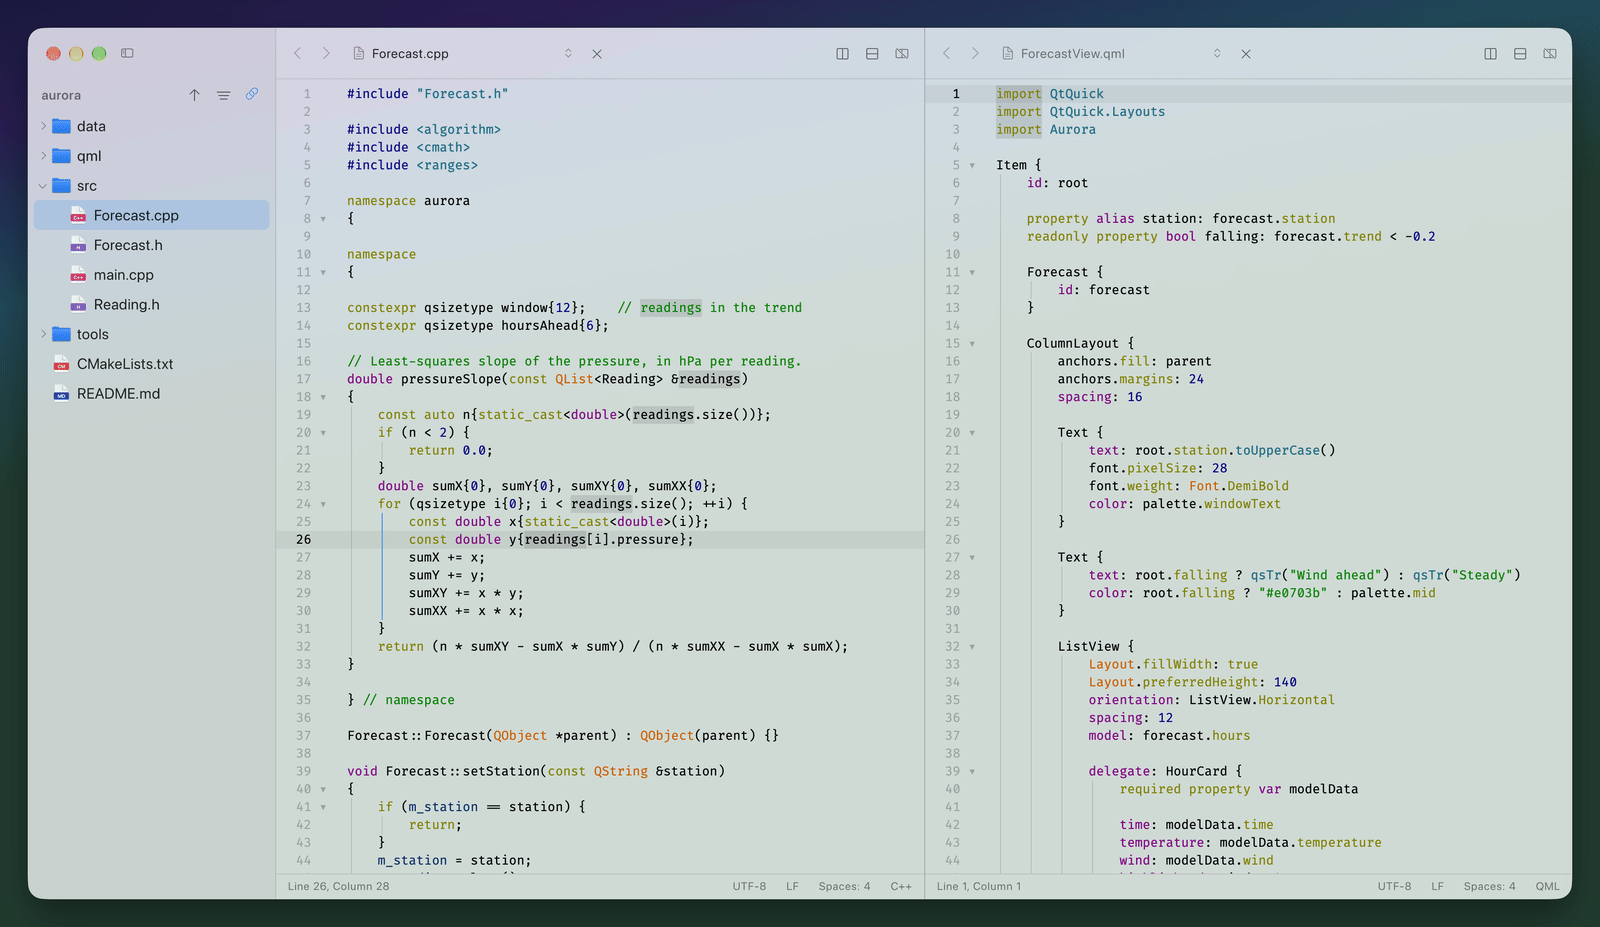
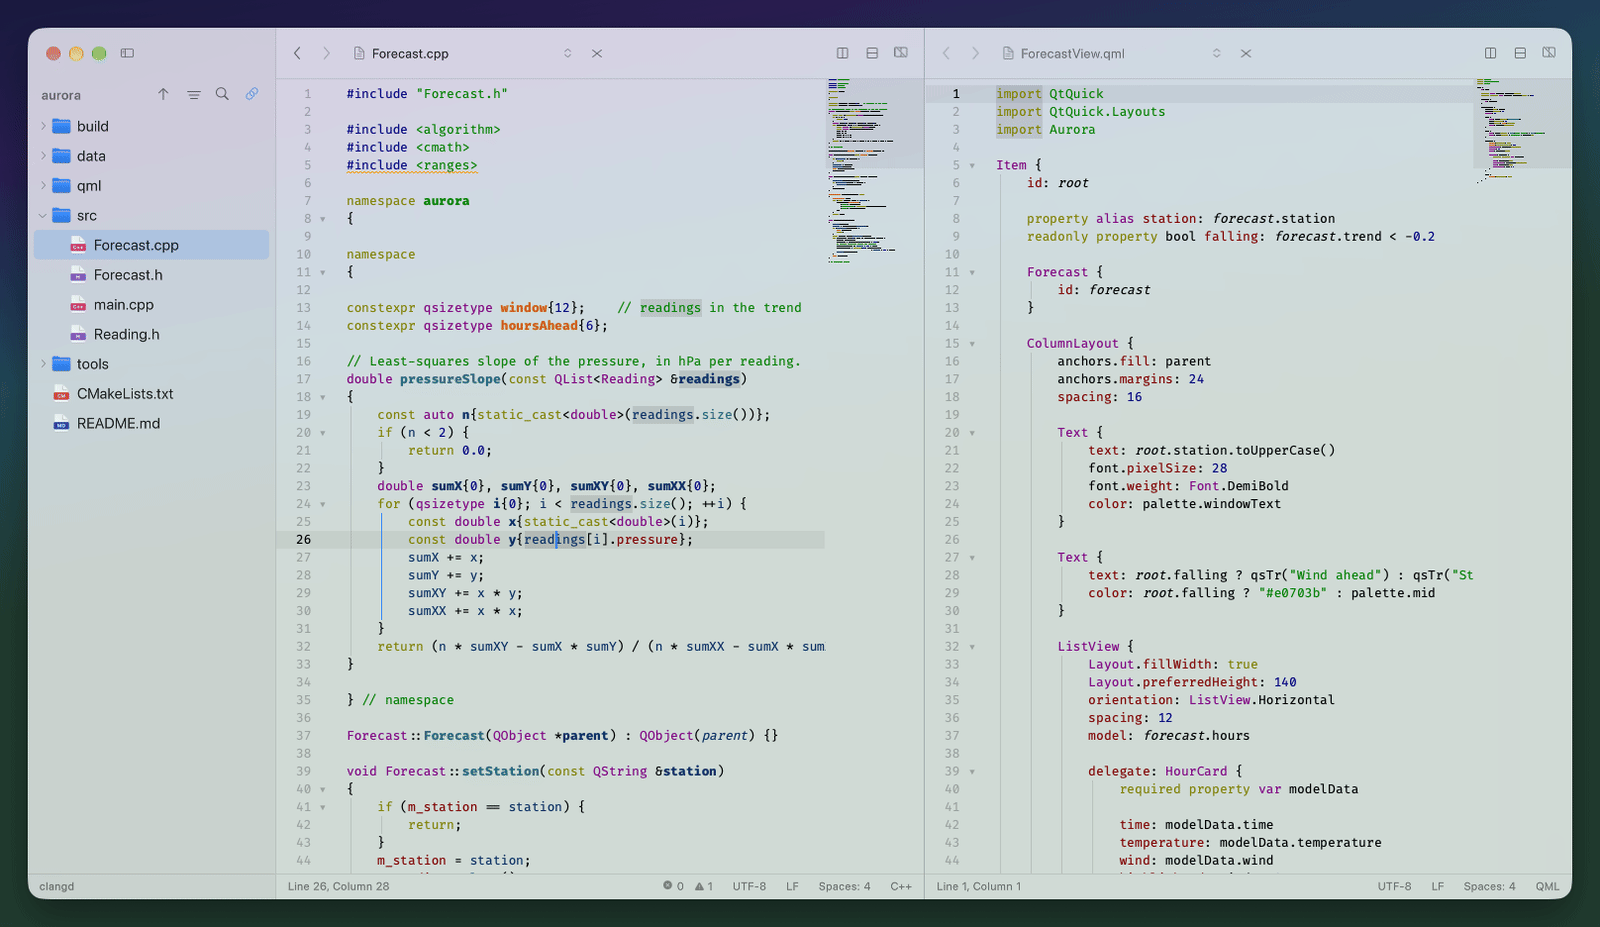
Docs and site: language servers, navigation, Find File; new screenshots and GIFs

diff --git a/site/features.html b/site/features.html
@@ -1,7 +1,7 @@
 ---
 layout: default
 title: Features
-description: Syntax highlighting, splits, multiple carets, code folding, find and replace, a file sidebar, encodings, large files and a native Mac look.
+description: Syntax highlighting, language servers, Find File, navigation, splits, multiple carets, code folding, find and replace, a file sidebar, encodings, large files and a native Mac look.
 permalink: /features/
 ---
 {%- assign icons = '/assets/icons/' | relative_url -%}
@@ -17,6 +17,8 @@ permalink: /features/
       <span class="lights" aria-hidden="true"><i></i><i></i><i></i></span>
       <ul>
         <li><a href="#syntax"><img src="{{ icons }}syntax.svg" alt="">Highlighting</a></li>
+        <li><a href="#language-servers"><img src="{{ icons }}languageservers.svg" alt="">Language Servers</a></li>
+        <li><a href="#navigation"><img src="{{ icons }}navigation.svg" alt="">Navigation</a></li>
         <li><a href="#editing"><img src="{{ icons }}editor.svg" alt="">Editing</a></li>
         <li><a href="#carets"><img src="{{ icons }}carets.svg" alt="">Multiple Carets</a></li>
         <li><a href="#folding"><img src="{{ icons }}folding.svg" alt="">Folding</a></li>
@@ -41,8 +43,39 @@ permalink: /features/
           <li><strong>Themes in pairs:</strong> Kode (Qt Creator's 2024 colors), Atom One, ayu, Breeze, GitHub, gruvbox and Solarized, each with a light and a dark version that follows the app's appearance.</li>
           <li><strong>Brackets and words:</strong> the bracket matching the one at the caret, and the word at the caret with its occurrences in view, are marked behind the text.</li>
           <li><strong>Indent guides</strong> show each level, the block at the caret in the accent color.</li>
+          <li><strong>Semantic colors</strong> from the language server: types, fields, locals, parameters and macros in C and C++, QML's types, ids and bindings, in Qt Creator's palette.</li>
+          <li><strong>A minimap</strong> beside the text (View ▸ Show Minimap): click a line to center it, drag to scroll.</li>
         </ul>
         {% include shot.html name="overview-light.png" w=1600 h=927 alt="Kode in light mode with the Kode Light theme: C++ and QML side by side" %}
+      </section>
+
+      <section class="settings-section" id="language-servers">
+        <header><img src="{{ icons }}languageservers.svg" alt=""><h2>Language Servers</h2></header>
+        <p>Kode talks to the language server of each file it opens (LSP), found on your shell's PATH: clangd for C, C++ and Objective-C, and servers for Python, Rust, Go, JavaScript and TypeScript, QML, Swift, Bash, Lua, Java, Kotlin, YAML, JSON, HTML, CSS, Markdown, CMake, Dockerfile, Terraform and TOML.</p>
+        <ul>
+          <li><strong>Problems as you type:</strong> a wave under each error or warning, its message where the pointer rests, and the counts in the status bar; a click there lists them and goes to one.</li>
+          <li><strong>Quick fixes:</strong> <kbd>⌥↩</kbd> shows the server's fixes and refactorings at the caret, as Qt Creator's Alt+Return; one undo step.</li>
+          <li><strong>Completion</strong> as a word starts, after <code>.</code> or <code>-&gt;</code>, or on <kbd>⌃Space</kbd>; keep typing to filter, <kbd>↩</kbd> or <kbd>Tab</kbd> to accept. Includes the server adds come in the same undo step.</li>
+          <li><strong>What the server is doing</strong> (starting, analyzing, indexing) shows in the sidebar's footer.</li>
+          <li><strong>Settings ▸ Language Servers:</strong> turn them off, add folders to look in, set clangd's threads, add your own server for any language, and see what was found — press and hold a missing one to copy its install command.</li>
+        </ul>
+        {% include shot.html name="quick-fix.gif" w=640 h=640 alt="A missing semicolon gets a wave and its message; Option-Return offers insert ';', Return applies it and the error goes" %}
+        {% include shot.html name="completion.png" w=940 h=936 alt="Completions for m_readings.la: last(), constLast(), removeLast() and takeLast(), each with its kind and type" %}
+        {% include shot.html name="settings-lsp.png" w=800 h=592 alt="Settings, Language Servers: the search path, custom servers, and each language's server found or its install command" %}
+      </section>
+
+      <section class="settings-section" id="navigation">
+        <header><img src="{{ icons }}navigation.svg" alt=""><h2>Navigation</h2></header>
+        <p>Getting around a project without the mouse, and back again.</p>
+        <ul>
+          <li><strong>Go to Definition:</strong> <kbd>F2</kbd> or <kbd>⌘</kbd>-click; holding <kbd>⌘</kbd> over a name shows it as a link. Several definitions open a menu. In the sidebar, <kbd>F2</kbd> still renames.</li>
+          <li><strong>Switch Header/Source:</strong> <kbd>F4</kbd>, as in Qt Creator — the file beside it, else the one clangd knows.</li>
+          <li><strong>Back and Forward through places,</strong> not only files: each split remembers where you edited, clicked on another line or jumped from, as Qt Creator does (<kbd>⌃⌘←</kbd> <kbd>⌃⌘→</kbd>, or the split's arrows).</li>
+          <li><strong>Find File:</strong> <kbd>⌘K</kbd>, or the magnifying glass in the sidebar, as Qt Creator's Locate: the folder's files whose name matches, the best first — names starting with what you typed, then holding it, then its letters at word starts — each with its path.</li>
+          <li><strong>Go to Line:</strong> <kbd>⌘L</kbd>, "line" or "line:column".</li>
+        </ul>
+        {% include shot.html name="navigation.gif" w=560 h=770 alt="Go to Line 75, Command over pressureSlope shows a link, Command-click opens its definition, then Reading.h; Back returns step by step and Forward goes again" %}
+        {% include shot.html name="find-file.png" w=1600 h=927 alt="Find File: fore typed, Forecast.h, Forecast.cpp and ForecastView.qml listed with their paths" %}
       </section>
 
       <section class="settings-section" id="editing">
@@ -50,6 +83,7 @@ permalink: /features/
         <p>The keys you expect from a Mac text view, and the ones you expect from a code editor.</p>
         <ul>
           <li><strong>Indentation:</strong> tabs or spaces and the width, detected when a file opens and changed from the status bar. <kbd>Tab</kbd> and <kbd>⇧Tab</kbd> or <kbd>⌘]</kbd> <kbd>⌘[</kbd> shift the selected lines.</li>
+          <li><strong>Brackets and quotes in pairs:</strong> typing an opening one adds its closing one, typing the closing one steps over it, and <kbd>⌫</kbd> in an empty pair takes both. <kbd>↩</kbd> after a <code>{</code> adds the <code>}</code> two lines down.</li>
           <li><strong>Auto-indent by the brackets,</strong> without knowing the language: <kbd>↩</kbd> between brackets puts the closing one on a line of its own, and a closing bracket lines up with its opening line. <kbd>⌃I</kbd> re-indents the selection, and Kode can re-indent on save.</li>
           <li><strong>Comments</strong> by the language's own markers: <kbd>⌘/</kbd> toggles line comments, <kbd>⌥⌘/</kbd> a block comment.</li>
           <li><strong>Select Block:</strong> <kbd>⌘U</kbd> selects the block around the selection, a larger one each time; <kbd>⇧⌘U</kbd> steps back.</li>
@@ -194,7 +228,11 @@ permalink: /features/
           <div class="form-row"><span><kbd>⌃⌘←</kbd> <kbd>⌃⌘→</kbd></span><span>Back / forward</span></div>
           <div class="form-row"><span><kbd>⌃⌘S</kbd></span><span>Show or hide the sidebar</span></div>
           <div class="form-row"><span><kbd>⌘F</kbd> <kbd>⌘R</kbd> <kbd>⌘G</kbd> <kbd>⌘E</kbd></span><span>Find / replace / next / use selection</span></div>
+          <div class="form-row"><span><kbd>⌘K</kbd></span><span>Find file</span></div>
           <div class="form-row"><span><kbd>⌘L</kbd></span><span>Go to line</span></div>
+          <div class="form-row"><span><kbd>F2</kbd> <kbd>⌘</kbd>-click</span><span>Go to definition</span></div>
+          <div class="form-row"><span><kbd>F4</kbd></span><span>Switch header/source</span></div>
+          <div class="form-row"><span><kbd>⌥↩</kbd> <kbd>⌃Space</kbd></span><span>Quick fix / completions</span></div>
           <div class="form-row"><span><kbd>⌃D</kbd> <kbd>⌥↑</kbd> <kbd>⌥↓</kbd></span><span>Add a caret</span></div>
           <div class="form-row"><span><kbd>⌘U</kbd> <kbd>⇧⌘U</kbd></span><span>Select block / step back</span></div>
           <div class="form-row"><span><kbd>⌘/</kbd> <kbd>⌥⌘/</kbd></span><span>Line / block comment</span></div>

diff --git a/site/index.html b/site/index.html
@@ -31,6 +31,16 @@ body_class: home
       <h3>Highlighting for 300+ languages</h3>
       <p>KDE's KSyntaxHighlighting, detected by name and shebang, with themes that follow light and dark: Kode, Atom One, ayu, GitHub, gruvbox, Solarized…</p>
     </a>
+    <a class="feature-card glass-card" href="{{ '/features/#language-servers' | relative_url }}">
+      <img class="app-icon" src="{{ icons }}languageservers.svg" alt="">
+      <h3>Language servers</h3>
+      <p>Problems as you type, quick fixes, completion, Go to Definition and semantic colors, from clangd, qmlls and the servers of 20 languages.</p>
+    </a>
+    <a class="feature-card glass-card" href="{{ '/features/#navigation' | relative_url }}">
+      <img class="app-icon" src="{{ icons }}navigation.svg" alt="">
+      <h3>Find a file, jump back</h3>
+      <p><kbd>⌘K</kbd> finds a file of the folder by name; Back and Forward go through the places you edited and jumped from.</p>
+    </a>
     <a class="feature-card glass-card" href="{{ '/features/#splits' | relative_url }}">
       <img class="app-icon" src="{{ icons }}splits.svg" alt="">
       <h3>Splits, not tabs</h3>
@@ -75,6 +85,33 @@ body_class: home
 </section>
 
 <section class="container">
+  <div class="showcase">
+    <div class="showcase-text">
+      <p class="eyebrow">Language servers</p>
+      <h2>Problems as you type. Fixed in a keystroke.</h2>
+      <p>Kode starts the language server of each file it opens — clangd for C and C++, qmlls for QML, and servers for Python, Rust, Go, TypeScript and more — found on your shell's PATH.</p>
+      <ul>
+        <li><strong>A wave under each problem,</strong> its message where the pointer rests, the counts in the status bar.</li>
+        <li><strong><kbd>⌥↩</kbd> quick fixes,</strong> as Qt Creator's Alt+Return, in one undo step.</li>
+        <li><strong>Completion</strong> as you type, and <strong>semantic colors</strong> for types, fields, locals and QML bindings, in Qt Creator's palette.</li>
+      </ul>
+    </div>
+    {% include shot.html name="quick-fix.gif" w=640 h=640 alt="A missing semicolon gets a wave and its message; Option-Return offers insert ';', Return applies it and the error goes" %}
+  </div>
+
+  <div class="showcase is-flipped">
+    <div class="showcase-text">
+      <p class="eyebrow">Navigation</p>
+      <h2>Jump to a definition. Come back.</h2>
+      <p><kbd>F2</kbd> or <kbd>⌘</kbd>-click goes to where a name is defined, in this file or another; <kbd>F4</kbd> switches between a header and its source. Each split remembers the places it went through, as Qt Creator does.</p>
+      <ul>
+        <li><strong>Back and Forward</strong> (<kbd>⌃⌘←</kbd> <kbd>⌃⌘→</kbd>, or the split's arrows) through where you edited, clicked or jumped from.</li>
+        <li><strong><kbd>⌘K</kbd> Find File:</strong> the folder's files by name, the best match first.</li>
+      </ul>
+    </div>
+    {% include shot.html name="navigation.gif" w=560 h=770 alt="Go to Line 75, Command over pressureSlope shows a link, Command-click opens its definition, then Reading.h; Back returns step by step and Forward goes again" %}
+  </div>
+
   <div class="showcase">
     <div class="showcase-text">
       <p class="eyebrow">Multiple carets</p>

diff --git a/README.md b/README.md
@@ -27,6 +27,13 @@ modules.
   [KSyntaxHighlighting](https://invent.kde.org/frameworks/syntax-highlighting),
   detected by name and shebang, in themes that come as a light and a dark
   pair (Kode, Atom One, ayu, Breeze, GitHub, gruvbox, Solarized).
+- **Language servers** (clangd, qmlls, pyright, rust-analyzer, gopls and
+  more, found on your shell's PATH): problems as you type, quick fixes
+  (<kbd>⌥↩</kbd>), completion, Go to Definition (<kbd>F2</kbd>,
+  <kbd>⌘</kbd>-click), Switch Header/Source (<kbd>F4</kbd>) and semantic
+  colors in Qt Creator's palette.
+- **Find File** (<kbd>⌘K</kbd>), as Qt Creator's Locate, and **Back and
+  Forward through places**: where you edited, clicked or jumped from.
 - **Splits, not tabs**, as in Qt Creator: split side by side or top and
   bottom, show the same document in two splits, go back and forward through
   what a split showed, and switch documents with <kbd>⌃Tab</kbd>.
@@ -48,6 +55,28 @@ modules.
   `kode file`, even a file that doesn't exist yet.
 - **Native look**: a translucent, blurred window, the system's accent and
   selection colors, SF Symbols, and light or dark.
+
+### Language servers
+
+Kode starts the language server of each file it opens. A wave marks each
+problem, its message shows where the pointer rests, and <kbd>⌥↩</kbd> offers
+the server's fixes, applied in one undo step. Completion comes as you type
+or on <kbd>⌃Space</kbd>.
+
+![A missing semicolon gets a wave; Option-Return inserts it](docs/images/quick-fix.gif)
+
+![Completions for m_readings.la](docs/images/completion.png)
+
+### Navigation
+
+<kbd>F2</kbd> or <kbd>⌘</kbd>-click goes to a definition, <kbd>F4</kbd>
+between a header and its source, and each split's Back and Forward
+(<kbd>⌃⌘←</kbd> <kbd>⌃⌘→</kbd>) go through the places it went through.
+<kbd>⌘K</kbd> finds a file of the folder by name.
+
+![Go to Definition with Command-click, then Back and Forward](docs/images/navigation.gif)
+
+![Find File listing the files that match "fore"](docs/images/find-file.png)
 
 ### Multiple carets
 
@@ -118,8 +147,12 @@ so does the theme's version.
 - **Editor**: the font, the theme, wrapping, invisibles, indent guides,
   indentation for new documents and re-indenting on save.
 - **Files**: hidden files, the sidebar's size and syncing it with the editor.
+- **Language Servers**: on or off, where to look for them, clangd's threads,
+  your own servers, and each language's server found or how to install it.
 
 ![The Appearance, Editor and Files sections of Settings](docs/images/settings.png)
+
+![Settings, Language Servers](docs/images/settings-lsp.png)
 
 ## Keyboard
 
@@ -132,7 +165,10 @@ so does the theme's version.
 | <kbd>⌃⌘←</kbd> / <kbd>⌃⌘→</kbd> | Back / forward |
 | <kbd>⌃⌘S</kbd> | Show or hide the sidebar |
 | <kbd>⌘F</kbd> / <kbd>⌘R</kbd> / <kbd>⌘G</kbd> / <kbd>⌘E</kbd> | Find / replace / next match / use selection |
+| <kbd>⌘K</kbd> | Find file |
 | <kbd>⌘L</kbd> | Go to line |
+| <kbd>F2</kbd> / <kbd>⌘</kbd>-click, <kbd>F4</kbd> | Go to definition, switch header/source |
+| <kbd>⌥↩</kbd> / <kbd>⌃Space</kbd> | Quick fix / completions |
 | <kbd>⌃D</kbd>, <kbd>⌥↑</kbd> / <kbd>⌥↓</kbd> | Add a caret |
 | <kbd>⌘U</kbd> / <kbd>⇧⌘U</kbd> | Select block / step back |
 | <kbd>⌘/</kbd> / <kbd>⌥⌘/</kbd> | Line / block comment |

diff --git a/docs/SCREENSHOTS.md b/docs/SCREENSHOTS.md
@@ -98,7 +98,12 @@ In the 1560×880 window, line *N* of the left split is at y ≈ 372 + (*N* −
 | `multiple-carets.gif` | ⌃D on `readings` four times, `samples` typed, Escape | Above; `key z command` undoes it |
 | `code-folding.gif` | ⌥⌘← on the `for` loop, ⌥⌘→, then the gutter marker of `pressureSlope` twice | Caret on line 25; markers at 358,462 |
 | `select-block.gif` | Light: ⌘U four times from line 28, ⇧⌘U twice | Recorded after `overview-light` |
-| `search.png` | ⌘F `sum`, ↩ once: 5 of 14, the matches marked | — |
+| `search.png` | ⌘F `sum` from line 23: 1 of 14, the matches marked | Caret clicked at 383,372 |
+| `find-file.png` | ⌘K, `fore` typed: `Forecast.h`, `Forecast.cpp`, `ForecastView.qml` with their paths | Click the editor first |
+| `completion.png` | `m_readings.la` typed on a new line after line 74: the list under the caret | Cropped to the left 940×936 px; Escape, `key z command` three times |
+| `quick-fix.gif` | The `;` of line 28 deleted, the pointer on the wave (its message), ⌥↩, ↓, ↩ | `record quickfix 19 250 340 640 640`; `gif … 1 17.5 640` |
+| `navigation.gif` | ⌘L 75, ⌘ held over `pressureSlope`, ⌘-click, ⌘-click on `Reading`, Back ×3, Forward | `record navigation 26 250 90 640 880`; `gif … 1 24.5 560`; Back at 332,115 |
+| `settings-lsp.png` | Settings ▸ Language Servers, scrolled to Custom servers and Servers | `shot NAME 40` |
 | `document-switcher.png` | ⌃Tab over `fetch_readings.py`, seven documents listed | `open` `Forecast.h`, `main.cpp`, `stations.json`, `fetch_readings.py`; hold Control with `osascript -e 'tell application "System Events"' -e 'key down control' -e 'key code 48' -e 'delay 3' -e 'key up control' -e 'end tell' &`, `shot` after 1.6 s |
 | `sidebar.png` | The right-click menu on `Forecast.h` | `rclick 160 309`, cropped to the left 1500×1380 px |
 | `settings.png` | Settings' Appearance, Editor and Files sections side by side | ⌘,; the editor window `place`d out of the way; `shot NAME 40` per section, each scaled to 800 px, `hstack` |
